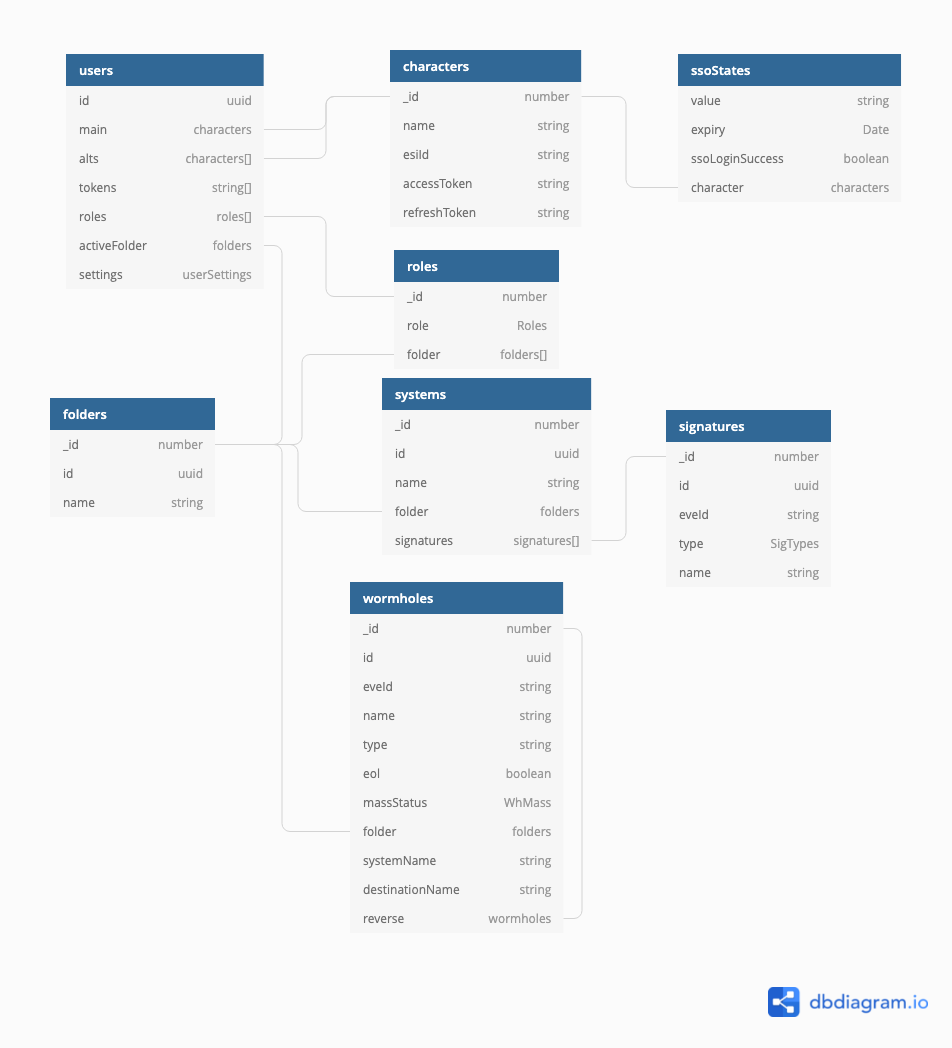
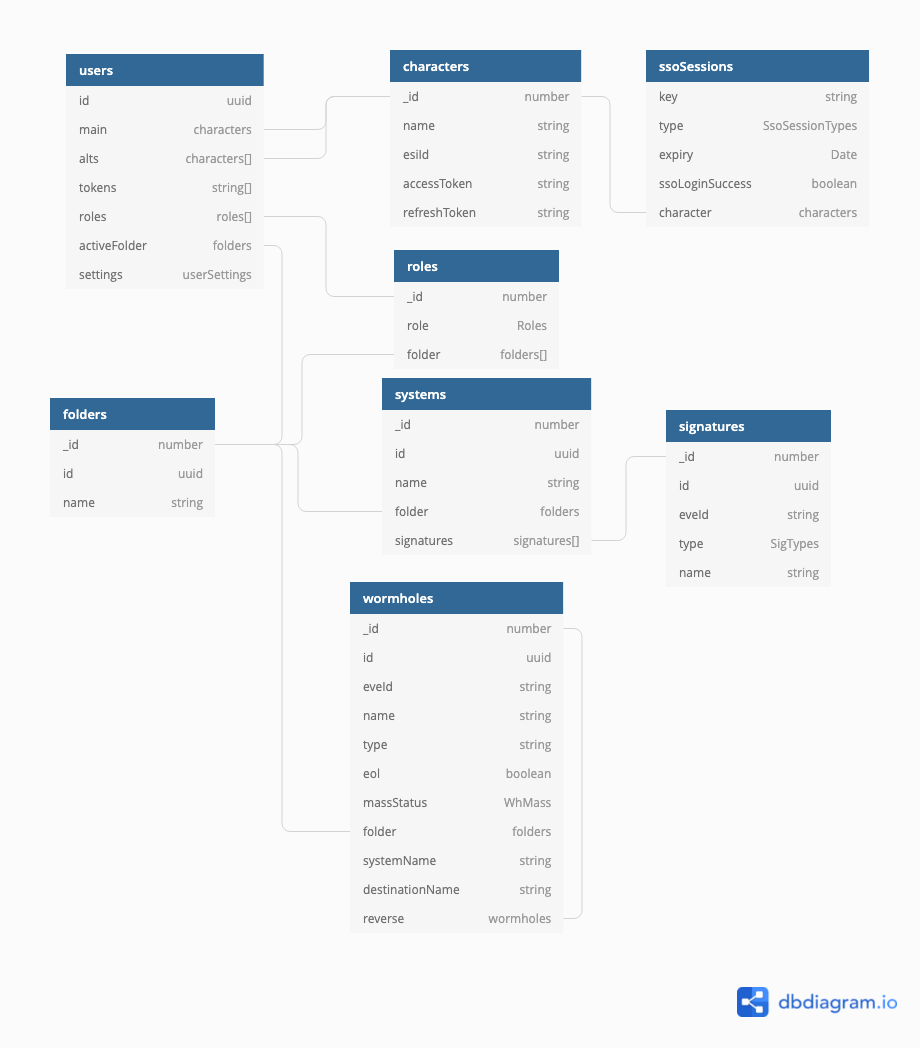
Add sso session type enum

diff --git a/server/src/auth/sso/sso.service.ts b/server/src/auth/sso/sso.service.ts
@@ -4,6 +4,7 @@ import FormData from "form-data";
 import { ssoCallbackUrl, ssoClientId, ssoSecretKey } from "../../config";
 import { CharacterService } from "../../entities/character/character.service";
 import { SsoSessionService } from "./ssoSession/ssoSession.service";
+import SsoSessionTypes from "./ssoSession/ssoSessionTypes.enum";
 import { SsoUrl } from "./ssoUrl.enum";
 
 @Injectable()
@@ -17,7 +18,7 @@ export class SsoService {
    * Generate EVE SSO login page URL.
    */
   async getClientLoginUrl() {
-    const { key } = await this.ssoSessionService.createSsoSession();
+    const { key } = await this.ssoSessionService.createSsoSession(SsoSessionTypes.LOGIN);
 
     const loginUrl = `${SsoUrl.Authorize}/?response_type=code&redirect_uri=${ssoCallbackUrl}&client_id=${ssoClientId}&state=${key}`;
     return encodeURI(loginUrl);

diff --git a/server/src/auth/sso/ssoSession/ssoSession.model.ts b/server/src/auth/sso/ssoSession/ssoSession.model.ts
@@ -1,9 +1,12 @@
-import { Field, ObjectType } from "@nestjs/graphql";
+import { Field, ObjectType, registerEnumType } from "@nestjs/graphql";
 import { Prop, Schema, SchemaFactory } from "@nestjs/mongoose";
 import * as mongoose from "mongoose";
 import { Character } from "src/entities/character/character.model";
+import SsoSessionTypes from "./ssoSessionTypes.enum";
 
 export type SsoSessionDocument = SsoSession & mongoose.Document;
+
+registerEnumType(SsoSessionTypes, { name: "SsoSessionTypes" });
 
 @ObjectType()
 @Schema({ collection: "ssoSessions" })
@@ -11,6 +14,10 @@ export class SsoSession {
   @Field()
   @Prop({ unique: true })
   key: string;
+
+  @Field((type) => SsoSessionTypes)
+  @Prop()
+  type: SsoSessionTypes;
 
   @Field()
   @Prop()

diff --git a/server/src/auth/sso/ssoSession/ssoSession.service.ts b/server/src/auth/sso/ssoSession/ssoSession.service.ts
@@ -5,6 +5,7 @@ import { Model } from "mongoose";
 import { Character } from "../../../entities/character/character.model";
 import { v4 as uuid } from "uuid";
 import { SsoSession, SsoSessionDocument } from "./ssoSession.model";
+import SsoSessionTypes from "./ssoSessionTypes.enum";
 
 @Injectable()
 export class SsoSessionService {
@@ -13,9 +14,10 @@ export class SsoSessionService {
   /**
    * Create new SSO state.
    */
-  async createSsoSession(): Promise<SsoSession> {
+  async createSsoSession(type: SsoSessionTypes): Promise<SsoSession> {
     return this.ssoSessionModel.create({
       key: uuid(),
+      type,
       expiry: dayjs().add(5, "minute"),
     });
   }

diff --git a/server/src/entities/signature/signature.model.ts b/server/src/entities/signature/signature.model.ts
@@ -2,7 +2,6 @@ import { Field, ObjectType, registerEnumType } from "@nestjs/graphql";
 import { Prop, Schema, SchemaFactory } from "@nestjs/mongoose";
 import mongoose from "mongoose";
 import { v4 as uuid } from "uuid";
-import { System } from "../system/system.model";
 import SigTypes from "./sigTypes.enum";
 
 export type SignatureDocument = Signature & mongoose.Document;

diff --git a/server/src/auth/sso/ssoSession/ssoSessionTypes.enum.ts b/server/src/auth/sso/ssoSession/ssoSessionTypes.enum.ts
@@ -1,0 +1,6 @@
+enum SsoSessionTypes {
+  LOGIN = "LOGIN",
+  ADD_CHARACTER = "ADD_CHARACTER",
+}
+
+export default SsoSessionTypes;
